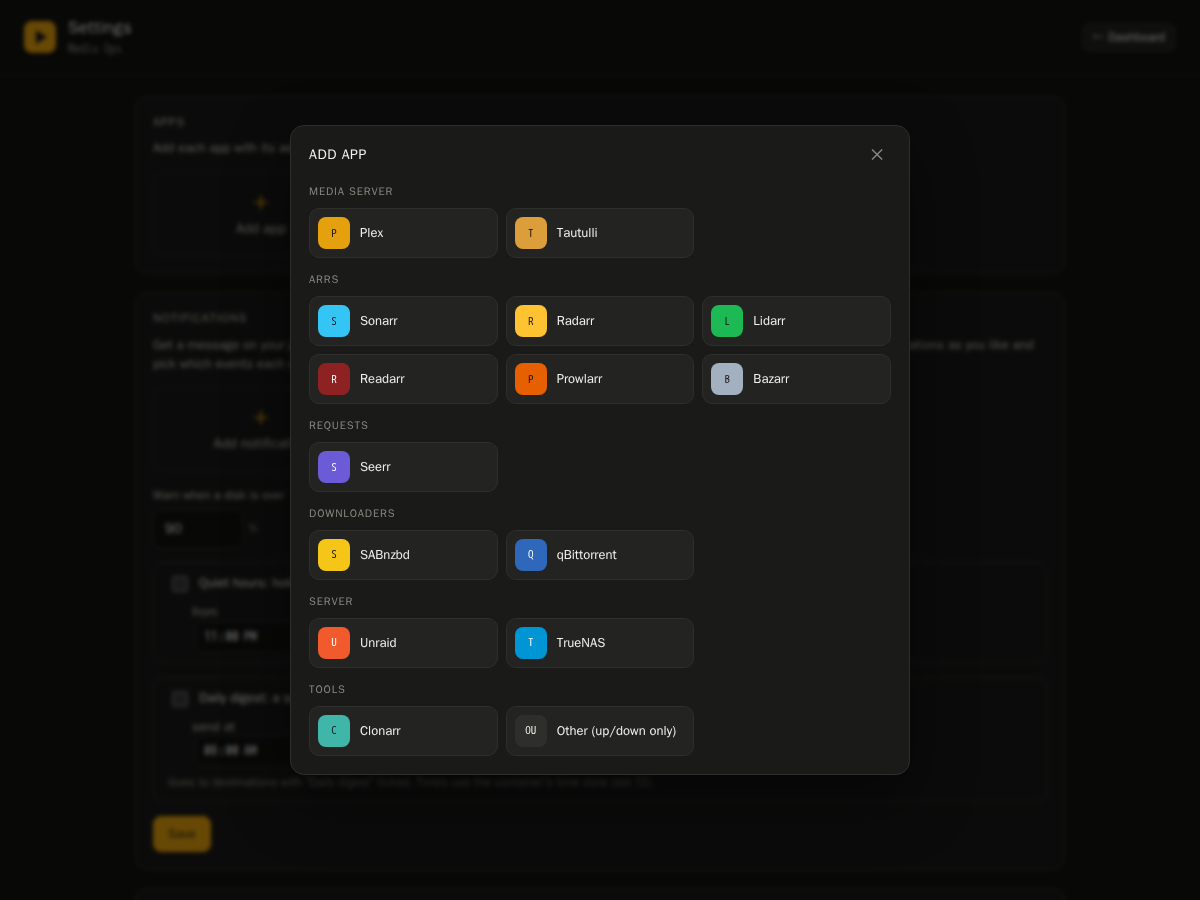
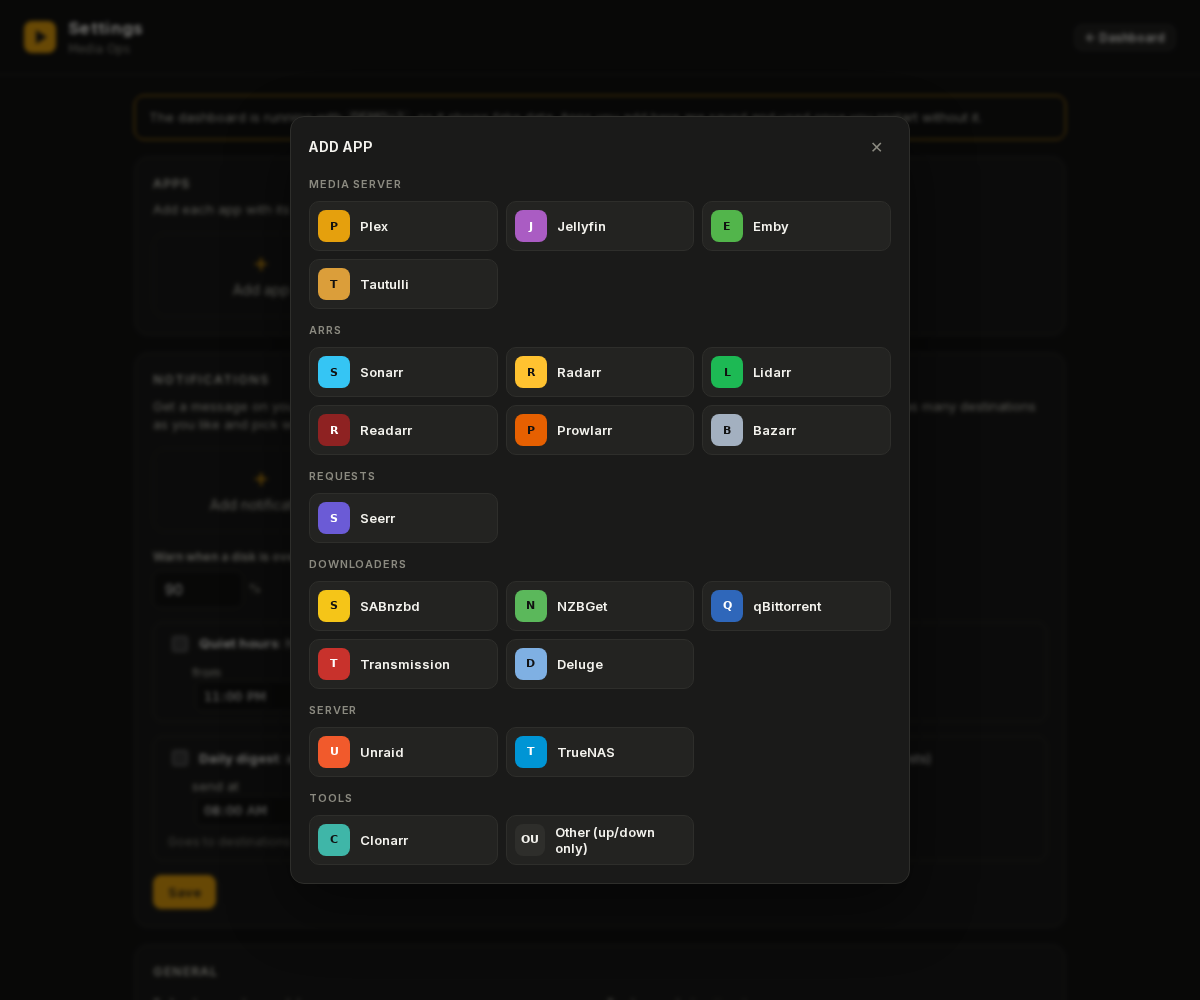
Refresh the demo and the README screenshots
- Demo: a Jellyfin server next to Plex (one stream, its own libraries
  and recently added) and a qBittorrent client, so DEMO=1 shows that
  media servers combine and torrent clients show upload too.
- Every README screenshot retaken from the demo at the same sizes, plus
  the status page and Settings → Appearance.
- Fixed: on phones the live summary took the title's room even before
  it appeared (it now takes none until it shows).
- Jellyfin and Emby get their own icon colors in Settings.

diff --git a/src/lib/demo.js b/src/lib/demo.js
@@ -209,6 +209,8 @@ function overview(realHost) {
     ],
     docker: [
       ['plex', 'plexinc/pms-docker', 'Up 12 days (healthy)'],
+      ['jellyfin', 'lscr.io/linuxserver/jellyfin', 'Up 12 days'],
+      ['qbittorrent', 'lscr.io/linuxserver/qbittorrent', 'Up 12 days'],
       ['sonarr', 'lscr.io/linuxserver/sonarr', 'Up 12 days'],
       ['radarr', 'lscr.io/linuxserver/radarr', 'Up 12 days'],
       ['lidarr', 'lscr.io/linuxserver/lidarr', 'Up 12 days'],
@@ -258,6 +260,56 @@ function overview(realHost) {
             { title: 'Music', type: 'artist', count: 1307, albums: 4210, tracks: 51288 },
             { title: '4K Movies', type: 'movie', count: 361 },
           ],
+        },
+      }),
+      // A Jellyfin server next to Plex: shows that several media servers combine.
+      svc('jellyfin', 'Jellyfin', '10.11.2', {
+        data: {
+          update: null,
+          streams: [
+            {
+              user: 'robin',
+              player: 'Bedroom TV',
+              product: 'Jellyfin Android TV',
+              platform: null,
+              state: 'playing',
+              local: true,
+              type: 'episode',
+              title: 'The Bear',
+              subtitle: 'S04E03 · Scallop',
+              offset: 12 * 60e3,
+              duration: 31 * 60e3,
+              decision: 'Transcode',
+              reason: "client can't play HEVC → H264",
+              hw: true,
+              hwName: 'VAAPI',
+              resolution: '1080',
+              videoCodec: 'hevc',
+              audioCodec: 'aac',
+              container: 'mkv',
+              bitrate: 9200,
+              bandwidth: 8000,
+              sessionId: 'demo-jf-1',
+            },
+          ].map((st, i) => stream(st, 100 + i)),
+          recentlyAdded: [
+            ['episode', 'The Bear', 'S04E03 · Scallop', 1.5],
+            ['movie', 'Weapons', '2025', 7],
+          ].map(([type, title, sub, hoursAgo], i) => ({
+            id: `jf${i}`,
+            type,
+            title,
+            sub,
+            thumb: null,
+            addedAt: start - Number(hoursAgo) * 3600e3,
+            library: null,
+          })),
+          libraries: [
+            { title: 'Kids Movies', type: 'movie', count: 318 },
+            { title: 'Kids Shows', type: 'show', count: 74, episodes: 2950 },
+          ],
+          resources: null,
+          mapEnabled: true,
         },
       }),
       svc('tautulli', 'Tautulli', 'v2.15.3', {
@@ -601,6 +653,29 @@ function overview(realHost) {
               message: 'Server news.eweka.nl will be ignored for 10 minutes (Too many connections)',
             },
           ],
+        },
+      }),
+      svc('qbittorrent', 'qBittorrent', 'v5.1.2', {
+        data: {
+          client: 'torrent',
+          downBps: wobble(9e6, 4e6, 2900),
+          upBps: wobble(3.2e6, 1.4e6, 3300),
+          ratio: 2.31,
+          allTimeDown: 18 * TB,
+          allTimeUp: 41.6 * TB,
+          torrents: 214,
+          states: { uploading: 196, downloading: 2, stalledUP: 16 },
+          items: [
+            {
+              title: 'debian-13.2.0-amd64-DVD-1.iso',
+              progress: 0.38,
+              size: 3.9 * GB,
+              eta: 410,
+              status: 'downloading',
+              speed: 8.8e6,
+            },
+          ],
+          events: [],
         },
       }),
       // DEMO=truenas shows a TrueNAS box instead of Unraid.

diff --git a/src/public/style.css b/src/public/style.css
@@ -214,6 +214,10 @@ body.strip-on .strip {
   opacity: 1;
   visibility: visible;
 }
+/* Takes no room until it shows, so the title has the space (it matters on phones). */
+body:not(.strip-on) .strip {
+  flex: 0 1 0;
+}
 :root[data-strip='off'] .strip,
 body.tv .strip {
   display: none;
@@ -1879,6 +1883,13 @@ main.settings {
 }
 .k-plex {
   background: #e5a00d;
+}
+.k-jellyfin {
+  background: #aa5cc3;
+  color: #fff;
+}
+.k-emby {
+  background: #52b54b;
 }
 .k-tautulli {
   background: #db9e3a;

diff --git a/README.md b/README.md
@@ -62,10 +62,12 @@ memory, GPU load and your Docker containers.
 the rest. Every screen, TV mode included, uses the same layout.
 
 **Settings → Appearance** sets light or dark (or follows each device), the accent color (Plex
-amber, Jellyfin purple, Emby green, blue, teal or red), your own title and logo, and the look of
-the status page, and whether the top bar shows a live summary (streams, download speed, apps up,
-errors) once you scroll down. Every accent is checked for readable contrast in both light and dark, and the
-up, warning and down colors never change, so a problem always looks like a problem.
+amber, Jellyfin purple, Emby green, blue, teal or red), your own title and logo, the look of the
+status page, and whether the top bar shows a live summary (streams, download speed, apps up,
+errors) once you scroll down. Every accent is checked for readable contrast in both light and
+dark, and the up, warning and down colors never change, so a problem always looks like a problem.
+
+<img src="docs/screenshots/appearance.png" alt="Settings → Appearance" width="620">
 
 ## TV mode
 
@@ -80,6 +82,8 @@ Turn on **Settings → Status page** and share `http://<your-server>:8484/status
 who use your server. They can check whether it's up, and see its uptime for the last day, without
 asking you. You pick which apps it lists and can add a notice like "down for maintenance
 tonight". It shows nothing else: no addresses, versions or errors.
+
+<img src="docs/screenshots/status-page.png" alt="The public status page" width="600">
 
 ## On your phone
 

diff --git a/CHANGELOG.md b/CHANGELOG.md
@@ -9,6 +9,16 @@ To stay on one version instead of `latest`, use a version tag such as
 
 ## [Unreleased]
 
+### Changed
+
+- The demo (`DEMO=1`) now has a Jellyfin server next to Plex and a qBittorrent client, and the
+  README screenshots are retaken from it, with new ones of the status page and Appearance.
+
+### Fixed
+
+- On phones the live summary took the title's space even before it appeared.
+- Jellyfin and Emby had grey icons in Settings; they have their own colors now.
+
 ## [1.17.0] - 2026-10-08
 
 ### Added
